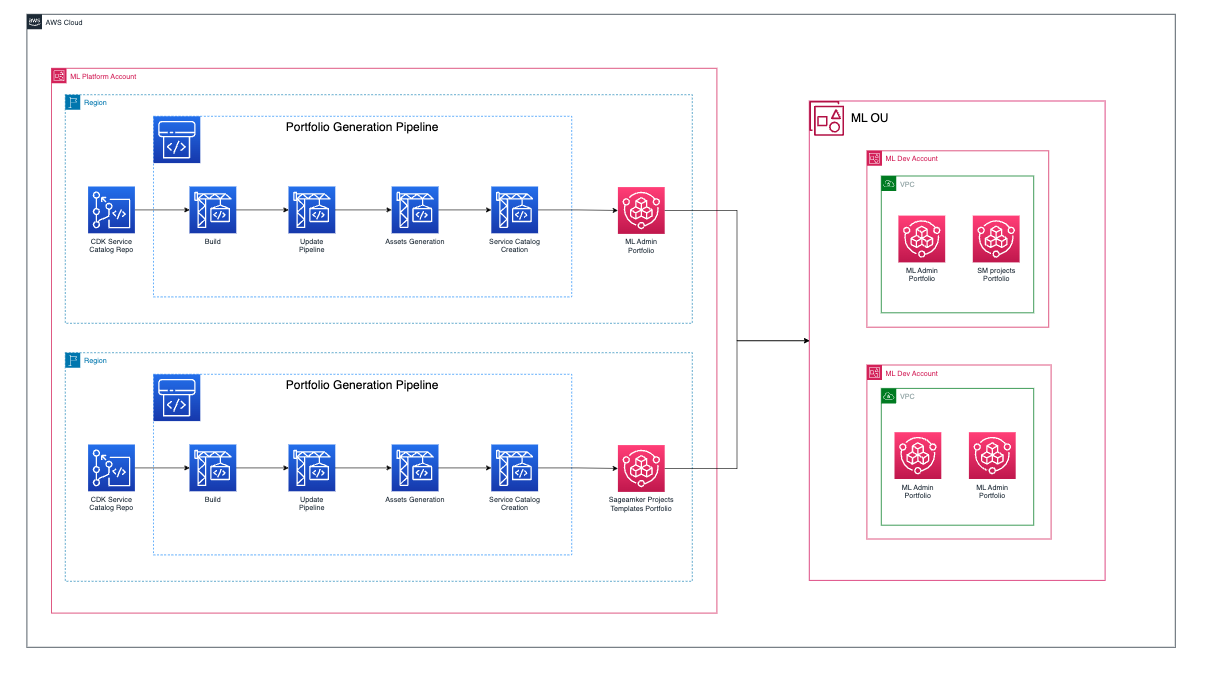
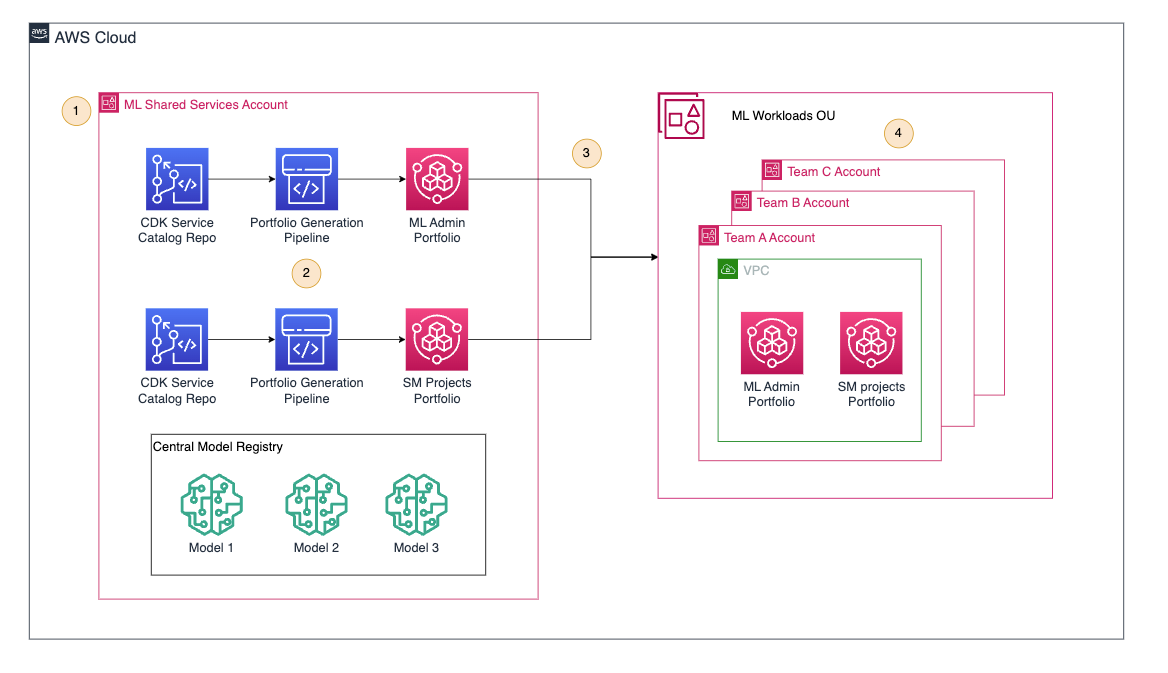
chore: improve module 3 documentation

diff --git a/module-3/README.md b/module-3/README.md
@@ -2,8 +2,8 @@
 
 This module helps the ML Platform Engineering Team setup shared services that are used by the Data Science teams on their team accounts. IN this model we will deploy and share two different Service Catalog Portfolios from the ML Platform Shared Services Account:
 
-- ML Admin Portfolio: includes the products that the admins of the ML development accounts will have to deploy infrastructure for their teams. This products include Sagemaker Domains, Databases...
-- SageMaker Projects portfolio: includes the products that will be used via SageMaker Projects by the data scientists to provision their ML Projects according to the corporate best practices.
+- **ML Admin Portfolio**: includes the products that the admins of the ML development accounts will have to deploy infrastructure for their teams. This products include Sagemaker Domains, Databases...
+- **SageMaker Projects portfolio**: includes the products that will be used via SageMaker Projects by the data scientists to provision their ML Projects according to the corporate best practices.
 
 ## Architecture
 
@@ -18,40 +18,90 @@ To deploy the CodeCommit repositories and the pipelines associated with them fol
 - [ML Admin Portfolio Deployment](ml-admin-portfolio/README.md)
 - [Sagemaker Projects Portfolio Deployment](sagemaker-projects-portfolio/README.md)
 
-### Cross-Account Sharing
+## Share ML Admin and SM Project portfolios
 
-Once both catalogs have been deployed we need to share them with the ML Dev Organizational Unit (OU), so that every new account created in this OU gets both portfolios ready to be used. You will need this OU id for the upcoming steps (ex. ou-0000-aaaabbbb)
+In this section we will see how we can make the priviously created portfolios available with all the acccounts in the ML Dev Organizational Unit
 
-We use organizational sharing, that shares a reference of the central portfolio, so that all ML Dev accounts are in sync with it and in case the central team makes some changes to it they get reflected in the child accounts.
+### Prerriquisites
 
-To do so, follow this steps:
+- For this section your will need the Organizational Unit id of the Workloads OU, it has the following the format ou-XXXX-XXXXXXXX. You can find these parameter in the AWS Organizations service from the Management Account.
+- Set up the ML Shared Services Account as a delegated administrator account for sharing portfolios. Follow the steps in [Sharing a portfolio: Sharing from a delegated admin account](https://docs.aws.amazon.com/servicecatalog/latest/adminguide/catalogs_portfolios_sharing_how-to-share.html) or [Simplify sharing your AWS Service Catalog Portfolios in an AWS Organization setup](https://aws.amazon.com/blogs/mt/simplify-sharing-your-aws-service-catalog-portfolios-in-an-aws-organizations-setup/)
 
-1. Login into your ML Platform Shared Service Account where both portfolios have been deployed.
-2. Navigate to the [Service Catalog console](https://console.aws.amazon.com/servicecatalog/home)
-3. In the Service Catalog console go to the Portfolios section
-4. Make sure that both your ML Admin Portfolio and your SM Projects Portfolio are there
-5. Select the ML Admin portfolio and in the actions button select share.
-6. 
+After you have enabled organizations access we will grant our ML Shared Services account Administrator permissions on Service Catalog. The command to run from the management account will be:
 
-
-In origin accounts (ML Admins)
-
-**Note** 
-In case you find issues such as: Organizational sharing is not available. Please check this to links to enable it:
-- [Sharing a Portfolio](https://docs.aws.amazon.com/servicecatalog/latest/adminguide/catalogs_portfolios_sharing_how-to-share.html)
-- [Register a delegated administrator](https://docs.aws.amazon.com/AWSCloudFormation/latest/UserGuide/stacksets-orgs-delegated-admin.html)
-
-Enable service access:
-
-```bash
-aws organizations enable-aws-service-access \
-    --service-principal servicecatalog.amazonaws.com
-```
 ```bash
 aws organizations register-delegated-administrator \
-  --service-principal=servicecatalog.amazonaws.com \
-  --account-id="398634070555"
+    --account-id <YOUR_AWS_ACCOUNT_ID> \
+    --service-principal servicecatalog.amazonaws.com
 ```
+### Sharing Steps
 
-TODO: 
-- Explain how to do and activate service catalog organization sharing, should probably be covered in module 1
+1. Go to [AWS Service Catalog console](https://us-east-1.console.aws.amazon.com/servicecatalog/home) and select the portfolios section
+
+![ServiceCatalogPortfoliosConsole](diagrams/share-portfolios/share-portfolios-1.png)
+
+
+2. Click on the **ML Admins Portfolio**, go to the `Share` tab and click on Share
+
+![MLAdminPortfolioShare](diagrams/share-portfolios/share-portfolios-2.png)
+
+
+3. In the sharing page select the following values:
+
+- In account Info:
+    - Select Organization node
+    - Choose Organizational Unit
+    - Enter the Organizational Unit id of the Workloads OU
+- In share settings:
+    - Leave TagOption sharing blank
+    - Select Principal Sharing
+
+![MLAdminPortfolioShare](diagrams/share-portfolios/share-portfolios-3.png)
+
+
+4. Repeat steps 2 and 3 with the SageMaker Projects Portfolio
+
+### Granting access to portfolios
+
+Permissions for the Portfolios will be granted automatically to the Sandbox account´s Project Administrator by using AWS Service Catalog Principal Name Sharing.
+
+Service Catalog Principal Name allows us to specify the IAM Roles, Users or Groups by name for which we want to grant permissions in the Shared Accounts. Therefore our users assuming roles with those names in the Sandbox Accounts will be able to manage the portfolios.
+
+To configure this follow this steps:
+
+1. Log into the ML Shared Services account and go to the [AWS Service Catalog console](https://us-east-1.console.aws.amazon.com/servicecatalog/home)
+
+2. Go to the **Portfolios** section and click on the **ML Admins Portfolio**. 
+
+3. In the ML Admin Portfolio page go to the *Access* tab and click on Grant Access
+
+![MLAdminPortfolioView](diagrams/share-portfolios/share-portfolios-4.png)
+
+4. In the Grant Access view:
+    - In the Access Type section select Principal Name
+    - In the Principal Name section select */role* for type and write the Name of the role that your Project Administrators will be assuming in the Sandbox Accounts. Since we are using AWS Identity Center this role will use wildcards and be somethig like: `aws-reserved/sso.amazonaws.com/*/AWSReservedSSO_AWSAdministratorAccess*`. For more information about this feature check: [AWS Service Catalog noew supports wildcards in IAM principal name associations](https://aws.amazon.com/about-aws/whats-new/2023/05/aws-service-catalog-wildcards-iam-principal-name-associations/)
+    - Click on Grant Access
+
+![GrantAccessView](diagrams/share-portfolios/share-portfolios-5.png)
+
+:::alert{header="Note" type="info"}
+Repeat these steps for the SageMaker Projects for model build Portfolio
+:::
+
+#### Sagemaker Access
+
+Access to the portfolios from the Sagemaker Roles in the Sagemaker Studio Domain will be provided at Domain creation time.
+
+This is because the execution role of Sagemaker Studio must be provided to create the access and these roles are created together with the Domains in our ML Platform.
+
+### Check child accounts
+
+1. Log into any of the accounts in the Workloads OU  and go to the [AWS Service Catalog console](https://us-east-1.console.aws.amazon.com/servicecatalog/home)
+
+2. Go to the **Portfolios** section and check the *Imported* tab. You should see the ML Admin Portfolio and the SM Projects Portfolio
+
+![ChildAccountImportedPortfolios](diagrams/share-portfolios/share-portfolios-6.png)
+
+3. Click on the the ML Admins Portfolio and go to the *Access* tab. You should see that the Principal Name permission has been propagated to the portfolio in this account.
+
+4. If you go to the **Products** tab you should see all the availble products that belong to the imported portfolios and ready to be deployed.

diff --git a/README.md b/README.md
@@ -12,6 +12,8 @@ The repository is intended to be followed with the instructions from the worksho
 
 - [Module 1: Account Bootstrapping Portfolio](./module-1/account-bootstrap-service-catalog-repo/README.md): this section will show you how to create the AWS Service Catalog portoflio to bootstrap new AWS Accounts with AWS Control Tower blueprints.
 
+- [Module 3: ML Engineering](./module-3/README.md): introduction to Module 3 and instructions on how to share the portfolios created in the module
+
 ## Security
 
 See [CONTRIBUTING](CONTRIBUTING.md#security-issue-notifications) for more information.
